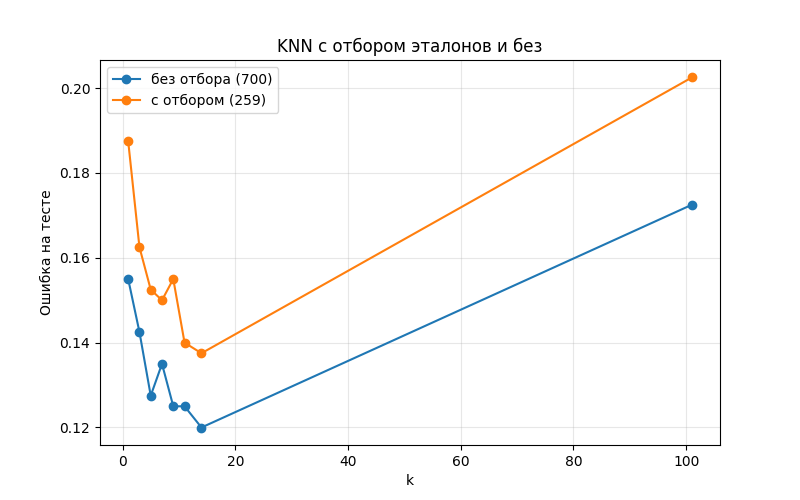
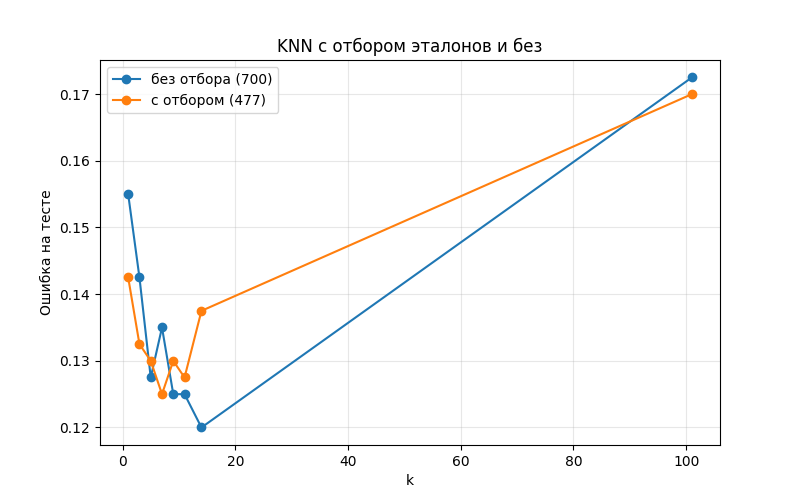
fix

diff --git a/students/zelenin-ds/lab2/source/metric_classifier.py b/students/zelenin-ds/lab2/source/metric_classifier.py
@@ -60,6 +60,7 @@ class PrototypeSelection:
         dists = self.calculate_metrics(X, X)
         np.fill_diagonal(dists, np.inf)
         self.order = dists.argsort(axis=1)[:, :-1]
+        self.d_sorted = np.sort(dists, axis=1)[:, :-1]
         labels = y[self.order]
         self.wrong = y[:, None] != labels
         print("order:", self.order.shape, "wrong:", self.wrong.shape)
@@ -67,47 +68,69 @@ class PrototypeSelection:
     def _profile(self):
         return self.wrong.mean(axis=0)
 
-    def _error(self, wrong=None, k=None):
-        wrong = self.wrong if wrong is None else wrong
-        k = self.k if k is None else k
-        bad = wrong[:, :k].sum(axis=1) > k / 2
-        return bad.mean(), bad
-
     def fit(self, X: np.ndarray, y: np.ndarray):
         self.X, self.y = X, y
         self._build_neighbors(X, y)
         self.compact_profile = self._profile()
-        self.error, self.bad = self._error()
+        self.error = self.error_with_prototype(np.ones(len(y), dtype=bool))
         print("профиль[0] (должен ≈ LOO 1-NN):", self.compact_profile[0])
-        print(f"ошибка при k={self.k}:", self.error)
+        print(f"CCV-критерий при k={self.k}:", self.error)
         return self
 
     def error_with_prototype(self, alive):
-        A = alive[self.order]
+        return self._contributions(alive).mean()
+
+    def _contributions(self, alive, rows=None):
+        order = self.order if rows is None else self.order[rows]
+        wrong = self.wrong if rows is None else self.wrong[rows]
+        d_all = self.d_sorted if rows is None else self.d_sorted[rows]
+        A = alive[order]
         rank = np.cumsum(A, axis=1)
         use = A & (rank <= self.k)
-        wrong_cnt = (use & self.wrong).sum(axis=1)
-        return np.mean(wrong_cnt > self.k / 2)
+        d = np.where(use, d_all, 0.0)
+        h = np.maximum(d.max(axis=1), 1e-12)
+        w = np.where(use, np.exp(-2 * (d / h[:, None]) ** 2), 0.0)
+        pi = w / np.maximum(w.sum(axis=1), 1e-12)[:, None]
+        return (pi * (use & wrong)).sum(axis=1)
 
     def select(self, max_steps=None):
         n = len(self.y)
         alive = np.ones(n, dtype=bool)
         history = []
-        best_err = self.error_with_prototype(alive)
+        c = self._contributions(alive)
+        base_sum = c.sum()
+        best_err = base_sum / n
 
         for step in range(max_steps or n - 2):
+            A = alive[self.order]
+            rank = np.cumsum(A, axis=1)
+            use = A & (rank <= self.k)
+            affected = [np.zeros(0, dtype=int) for _ in range(n)]
+            for p in range(min(n - 1, self.k + step)):
+                rows = np.nonzero(use[:, p])[0]
+                cols = self.order[rows, p]
+                for i, u in zip(cols, rows):
+                    old = affected[i]
+                    affected[i] = np.concatenate([old, [u]]) if len(old) else np.array([u])
+
             best_i, best_new = None, None
             for i in np.where(alive)[0]:
+                rows = affected[i]
+                if len(rows) == 0:
+                    continue
                 alive[i] = False
-                err = self.error_with_prototype(alive)
+                c_new = self._contributions(alive, rows)
                 alive[i] = True
+                err = (base_sum - c[rows].sum() + c_new.sum()) / n
                 if best_new is None or err < best_new:
                     best_i, best_new = i, err
 
-            if best_new > best_err + 0.001:
+            if best_new is None or best_new > best_err:
                 break
             alive[best_i] = False
-            best_err = best_new
+            c = self._contributions(alive)
+            base_sum = c.sum()
+            best_err = base_sum / n
             history.append((alive.sum(), best_err))
             print(step, alive.sum(), best_err)
 

diff --git a/students/zelenin-ds/lab2/source/main.py b/students/zelenin-ds/lab2/source/main.py
@@ -57,6 +57,7 @@ if __name__ == "__main__":
     plt.ylabel("Частота ошибок")
     plt.legend()
     plt.grid(alpha=0.3)
+    plt.savefig("pics/k_dep_Parzen.png")
 
 
     ker = GaussianKernel()
@@ -103,6 +104,7 @@ if __name__ == "__main__":
     ax[1].set_title("Ход отбора")
     ax[1].grid(alpha=0.3)
     plt.tight_layout()
+    plt.savefig("pics/pca.png")
 
 
     ks_cmp = [k for k in [ 1,3,5,7,9, 11, k_best,101] if k <= n_proto]
@@ -122,5 +124,6 @@ if __name__ == "__main__":
     plt.title("KNN с отбором эталонов и без")
     plt.legend()
     plt.grid(alpha=0.3)
+    plt.savefig("pics/etalon.png")
 
     plt.show()

diff --git a/students/zelenin-ds/lab2/source/README.md b/students/zelenin-ds/lab2/source/README.md
@@ -44,79 +44,89 @@
 Результаты совпадают (47 ошибок из 400 у обоих), что подтверждает корректность реализации.
 ## 5. Алгоритм отбора эталонов
 
-Реализована жадная стратегия удаления не-эталонов с критерием минимума ошибки скользящего контроля:
+Реализована жадная стратегия удаления не-эталонов. Критерий качества набора эталонов — оценка ошибки через профиль компактности (CCV): вместо голосования большинства ошибка объекта оценивается как сумма взвешенных по Парзену промахов его соседей.
+
+Для объекта `u` и текущего множества эталонов `Ω`:
+
+1. Берутся `k` ближайших **оставшихся** эталонов; сам объект в соседи себе не попадает.
+2. Окно — как у классификатора: `h` = расстояние до `k`-го оставшегося эталона.
+3. Вес `m`-го соседа задается долей профиля `Π(m,Ω) = K(d_m/h) / Σ_{j≤k} K(d_j/h)`, так что `Σ_m Π(m,Ω) = 1`.
+4. `R(m,u) = 1`, если класс `m`-го соседа не совпадает с классом `u`.
+5. Ошибка объекта: `C(u,Ω) = Σ_{m=1}^{k} Π(m,Ω) R(m,u)` — доля веса, отданная чужому классу.
+
+Итоговый критерий — средняя ошибка по всей подвыборке, то есть контрольными являются все 700 объектов, включая уже удалённые: `W(Ω) = mean_u C(u,Ω)`. Длина контроля согласована с классификатором: в критерии используются те же `k` ближайших соседей и та же ширина окна Парзена, что и в самом классификаторе, поэтому отбор оптимизирует именно ту взвешенную ошибку, которую допускает алгоритм.
+
+Жадное удаление:
 
 1. `Ω` = вся подвыборка (все объекты считаются эталонами).
-2. Для каждого `x` из `Ω` оценивается ошибка при его удалении. Для каждого объекта подвыборки берутся его `k` ближайших **оставшихся** эталонов (сам объект в соседи не входит), класс определяется большинством голосов. Ошибка считается по всем объектам подвыборки, включая уже удалённые.
-3. Удаляется объект, после которого ошибка минимальна. При равенстве выбирается объект с меньшим индексом.
-4. Шаги 2-3 повторяются, пока ошибка уменьшается или растёт не более чем на 0.001.
+2. Для каждого `x` из `Ω` оценивается `W(Ω \ {x})` — удаляется объект, после которого критерий минимален. При равенстве выбирается объект с меньшим индексом.
+3. Шаги 2-3 повторяются, пока существует удаление, не увеличивающее `W`: остановка при первом строго увеличении критерия. Изначально сохранялся допуск «+0.001» из предыдущей версии при голосовании большинства: при непрерывном CCV-критерии он допускал медленный дрейф качества (ошибка ползла вверх на десятитысячные за шаг, и отбор останавливался лишь при ~90 эталонах, деградируя тест), поэтому остановка сделана строгой.
 
-Для ускорения порядок соседей каждого объекта и матрица «сосед имеет чужой класс» вычисляются один раз. Удаление реализовано булевой маской `alive`: сами матрицы не меняются, при пересчёте ошибки из списка соседей отбрасываются удалённые, и берутся первые `k` оставшихся.
+Для ускорения порядок соседей и признак «сосед чужого класса» вычисляются один раз. Удаление реализовано булевой маской `Ω`: сами матрицы не меняются, при пересчёте из списка соседей отбрасываются удалённые и берутся первые `k` оставшихся. Ключевое ускорение: при пробе кандидата ошибка пересчитывается только для объектов, у которых кандидат стоит среди первых `k` живых соседей (при вылете объектов первые `k` живых соседей уходят вглубь списка, поэтому затронутые строки ищутся по всей матрице соседей, а не только по первым `k` колонкам). Инкрементальный пересчёт проверен на побитовое совпадение с полным пересчётом ошибки после каждого удаления.
 
 Параметры эксперимента:
 
 - подвыборка: первые 700 объектов обучающей выборки (выборка предварительно перемешана, поэтому срез случаен; на полной выборке алгоритм слишком медленный, так как перебирает всех кандидатов на каждом шаге);
-- k отбора: 15 (нечётное, ближайшее к лучшему k = 14 из LOO, чтобы при голосовании не было ничьих).
+- k отбора: 15 — то же число соседей, что у классификатора (ближайшее нечётное к лучшему k = 14 из LOO; самому критерию нечётность не нужна, он взвешенный и ничьих не допускает).
 
 Результат:
 
 | Показатель | Значение |
 |---|---|
 | Размер подвыборки | 700 |
-| Осталось эталонов | **259** (37%) |
-| Ошибка 1-NN (LOO) на подвыборке | 0.1486 |
-| Ошибка на подвыборке до отбора (k = 15) | 0.1343 |
-| Ошибка на подвыборке после отбора | 0.0700 |
-| Число шагов удаления | 441 |
+| Осталось эталонов | **477** (68%) |
+| Профиль[0] (должен ≈ LOO 1-NN) | 0.1486 |
+| CCV-критерий до отбора (k = 15) | 0.2163 |
+| CCV-критерий после отбора | **0.1678** |
+| Число шагов удаления | 222 |
 
-Ход отбора: первые удаления быстро снижают ошибку (0.1343 → 0.1186 за 11 шагов: удаляются объекты, мешающие соседям голосовать правильно, например шум внутри чужого класса). Далее ошибка снижается медленно и ступенями с длинными участками без изменения: 0.10 при 650 эталонах, 0.0929 при 600, 0.0886 при 550, 0.0714 при 300 и 0.0700 в конце. На участках без изменения удаляются избыточные объекты, не влияющие на ошибку. Остановка наступила, когда любое следующее удаление увеличивало ошибку больше чем на 0.001 (на 700 объектах одна лишняя ошибка даёт 1/700 ≈ 0.0014).
+Ход отбора: критерий монотонно снижается с 0.2163 до 0.1678 без скачков назад: 0.1874 при 650 эталонах, 0.1774 при 600, 0.1715 при 550, 0.1679 при 500. Первые удаления убирают объекты, оттягивающие вес чужого класса у своих соседей. Последние ~20 шагов идут по плато: удаляются объекты, у которых все `k` ближайших оставшихся эталонов уже своего класса — их вклад в критерий нулевой и не меняется после удаления (0.1679 → 0.1678). Остановка наступила, когда любое следующее удаление строго увеличивало критерий.
 
 ## 6. Визуализация
 
 ![](pics/pca.png)
 - **Эталоны в проекции на 2 главные компоненты.** Удалённые объекты рисуются бледными маленькими точками, эталоны крупными с чёрной обводкой, цвет обозначает класс. Проекция семимерного пространства на плоскость приблизительна, поэтому классы на картинке перекрываются сильнее, чем в исходном пространстве.
-- **Ход отбора.** Зависимость ошибки на подвыборке от размера набора эталонов (ось X перевёрнута, процесс идёт слева направо).
+- **Ход отбора.** Зависимость CCV-критерия `W(Ω)` от размера набора эталонов (ось X перевёрнута, процесс идёт слева направо).
 
 ## 7. Сравнение KNN с отбором эталонов и без
 
 Оценка на тестовой выборке (400 объектов). Оба варианта строятся на одних и тех же 700 объектах, различается только отбор.
 
-| k | Без отбора (700) | С отбором (259) | Разница |
+| k | Без отбора (700) | С отбором (477) | Разница |
 |---|---|---|---|
-| 1 | 0.1550 | 0.1875 | +0.0325 |
-| 3 | 0.1425 | 0.1625 | +0.0200 |
-| 5 | 0.1275 | 0.1525 | +0.0250 |
-| 7 | 0.1350 | 0.1500 | +0.0150 |
-| 9 | 0.1250 | 0.1550 | +0.0300 |
-| 11 | 0.1250 | 0.1400 | +0.0150 |
+| 1 | 0.1550 | 0.1425 | −0.0125 |
+| 3 | 0.1425 | 0.1325 | −0.0100 |
+| 5 | 0.1275 | 0.1300 | +0.0025 |
+| 7 | 0.1350 | 0.1250 | −0.0100 |
+| 9 | 0.1250 | 0.1300 | +0.0050 |
+| 11 | 0.1250 | 0.1275 | +0.0025 |
 | 14 | 0.1200 | 0.1375 | +0.0175 |
-| 101 | 0.1725 | 0.2025 | +0.0300 |
+| 101 | 0.1725 | 0.1700 | −0.0025 |
 
 ![К с отбором и без](pics/etalon.png)
 
 Наблюдения:
 
-- Отбор сократил набор в 2.7 раза (700 → 259), что ускоряет предсказание примерно во столько же раз и во столько же уменьшает объём хранимых данных.
-- Ошибка на тесте при этом **выросла** при всех `k`, на 0.015-0.0325. Улучшения качества отбор не дал.
-- Снижение ошибки с 0.1343 до 0.0700 в п. 5 измерено на тех же объектах, по которым выбирались эталоны, поэтому оно оптимистично и на тесте не подтвердилось.
-- Для обоих вариантов лучшее качество на тесте достигается при `k = 14` среди проверенных значений (0.1200 без отбора, 0.1375 с отбором), что согласуется с выбором `k` по LOO.
-- При очень большом `k = 101` ошибка резко растёт в обоих вариантах: окно охватывает слишком большую долю выборки, граница классов сглаживается. Это иллюстрирует, почему `k` нужно подбирать, а не брать большим.
-- При малых `k` (1, 3) ошибка выше, чем при `k = 14`: чувствительность к шуму.
+- При малых `k` (1, 3, 7) отбор **улучшил** качество: взвешенный CCV-критерий сохраняет эталоны, поддерживающие окрестности объектов, и удаляет в первую очередь объекты, оттягивающие вес чужого класса у своих соседей.
+- При `k` = 5, 9, 11 разница в пределах ±0.005 — качество сопоставимо с полным набором.
+- При `k` = 14 отбор ухудшил результат (+0.0175): отбор сохраняет 68% объектов, и при широком окне качество почти полного набора оказывается выше, чем у прореженного.
+- При `k` = 101 варианты сравнимы (−0.0025): очень широкое окно сглаживает разницу в составе эталонов.
+- В отличие от голосования большинства (старая версия: 259 эталонов, ошибка на тесте росла на 0.015-0.0325 при всех `k`), CCV-критерий удаляет меньше и мягче: на тесте есть и улучшения (k = 1, 3, 7), и небольшие ухудшения (k = 5, 9, 11, 14).
 
 ## 8. Возможные причины и ограничения
 
 
-1. **Подгонка под подвыборку.** Критерий считается на тех же 700 объектах, и жадное удаление подстраивается именно под них. Разрыв между ошибкой на подвыборке (0.07) и на тесте (около 0.14) это подтверждает.
-2. **Размер подвыборки.** При 7 признаках 700 объектов немного, и удаление 63% объектов теряет информацию о границе классов. Ошибка 0.1343 при `k = 15` на 700 объектах выше LOO-ошибки на 3600 объектах (0.0925), то есть на малой выборке соседи в среднем дальше и классификация хуже.
-3. **Несовпадение k.** Отбор шёл при `k = 15`, а сравнение проведено для разных `k`. Значение `k = 14` очень близко к 15, и ошибка с отбором всё равно выше, поэтому несовпадение `k` не объясняет ухудшение.
-4. **Критерий остановки.** Порог 0.001 при 700 объектах означает остановку при первом же росте ошибки на один объект. Жадный алгоритм может остановиться в локальном минимуме. Кроме того, он продолжает удалять объекты и при неизменной ошибке (длинные участки без изменения на графике хода отбора), что может быть избыточным: многие такие удаления уже не улучшают критерий, а лишь уменьшают набор.
+1. **Подгонка под подвыборку.** Критерий считается на тех же 700 объектах, и жадное удаление подстраивается именно под них: CCV-критерий снизился с 0.2163 до 0.1678, однако построенный на оставленных эталонах тестовый Парзен ведёт себя иначе, и улучшение подтверждается только при малых `k`.
+2. **Размер подвыборки.** При 7 признаках 700 объектов немного: CCV-критерий до отбора (0.2163) существенно выше LOO-риска на 3600 объектах (0.0925), то есть на малой выборке соседи в среднем дальше и классификация хуже.
+3. **Рассогласование окон.** Отбор оптимизировал взвешенную ошибку при окне `k = 15`, а на тесте сравнивался обычный Парзен при разных `k`. При `k`, близких к 15, ландшафт критерия и поведение классификатора согласованы, при иных окнах эталонный набор уже не оптимален по составу (видно по `k = 14`: +0.0175).
+4. **Критерий остановки.** Строгая остановка при первом же росте критерия может остановить жадный отбор в локальном минимуме задолго до минимально возможного набора: осталось 68% объектов, профильный критерий при этом перестал снижаться. Хвост-плато удаляет только «невидимые» для критерия объекты (все соседи первого окна — своего класса), такие удаления не влияют на критерий и не помогают классификации, но и не вредят.
 
-Возможные улучшения: остановить отбор раньше (по плато ошибки) или ввести отложенную выборку для критерия остановки, увеличить подвыборку, использовать для отбора тот же классификатор (Парзен с весами), ускорить пересчёт ошибки только для объектов, у которых удаляемый стоял среди `k` соседей.
+Возможные улучшения: увеличить подвыборку, ввести отложенную выборку для критерия остановки, сравнивать на тесте Парзен с тем же окном `k = 15`, что и в критерии отбора.
 
 ## 9. Выводы
 
 1. Реализован KNN с окном Парзена переменной ширины и гауссовым ядром с обрезкой. Оптимальное `k` по LOO равно 14 (риск 0.0925, 333 ошибки из 3600).
 2. Собственная реализация даёт на тесте ту же ошибку (0.1175), что и эталонный `KNeighborsClassifier` из sklearn.
-3. Реализован жадный отбор эталонов: из 700 объектов оставлено 259 (37%), ошибка на обучающей подвыборке снизилась с 0.1343 до 0.0700.
-4. На тестовой выборке отбор эталонов ухудшил качество на 0.015-0.0325 при всех проверенных `k`, то есть он даёт выигрыш по скорости и объёму памяти (набор меньше в 2.7 раза), но не по точности.
-5. Наилучшее качество на тесте как с отбором, так и без него достигается при `k = 14`, выбранном по LOO.
+3. Реализован жадный отбор эталонов с CCV-критерием — оценкой ошибки ΣΠ(m,Ω)R(m) по профилю компактности с нормированными парзеновскими весами и длиной контроля, согласованной с классификатором (`k = 15`): из 700 объектов оставлено 477 (68%), критерий снизился с 0.2163 до 0.1678 без дальнейших строгих улучшений.
+4. На тестовой выборке отбор улучшил качество при `k` = 1, 3, 7 (до −0.0125), оставил его сопоставимым при `k` = 5, 9, 11, 101 (±0.005) и ухудшил при `k` = 14 (+0.0175). Хранение и предсказание ускоряются примерно в 700/477 ≈ 1.5 раза.
+5. Наилучшее качество на тесте: без отбора — 0.1200 при `k = 14`, с отбором — 0.1250 при `k = 7`, что согласуется с выбором `k` по LOO.
